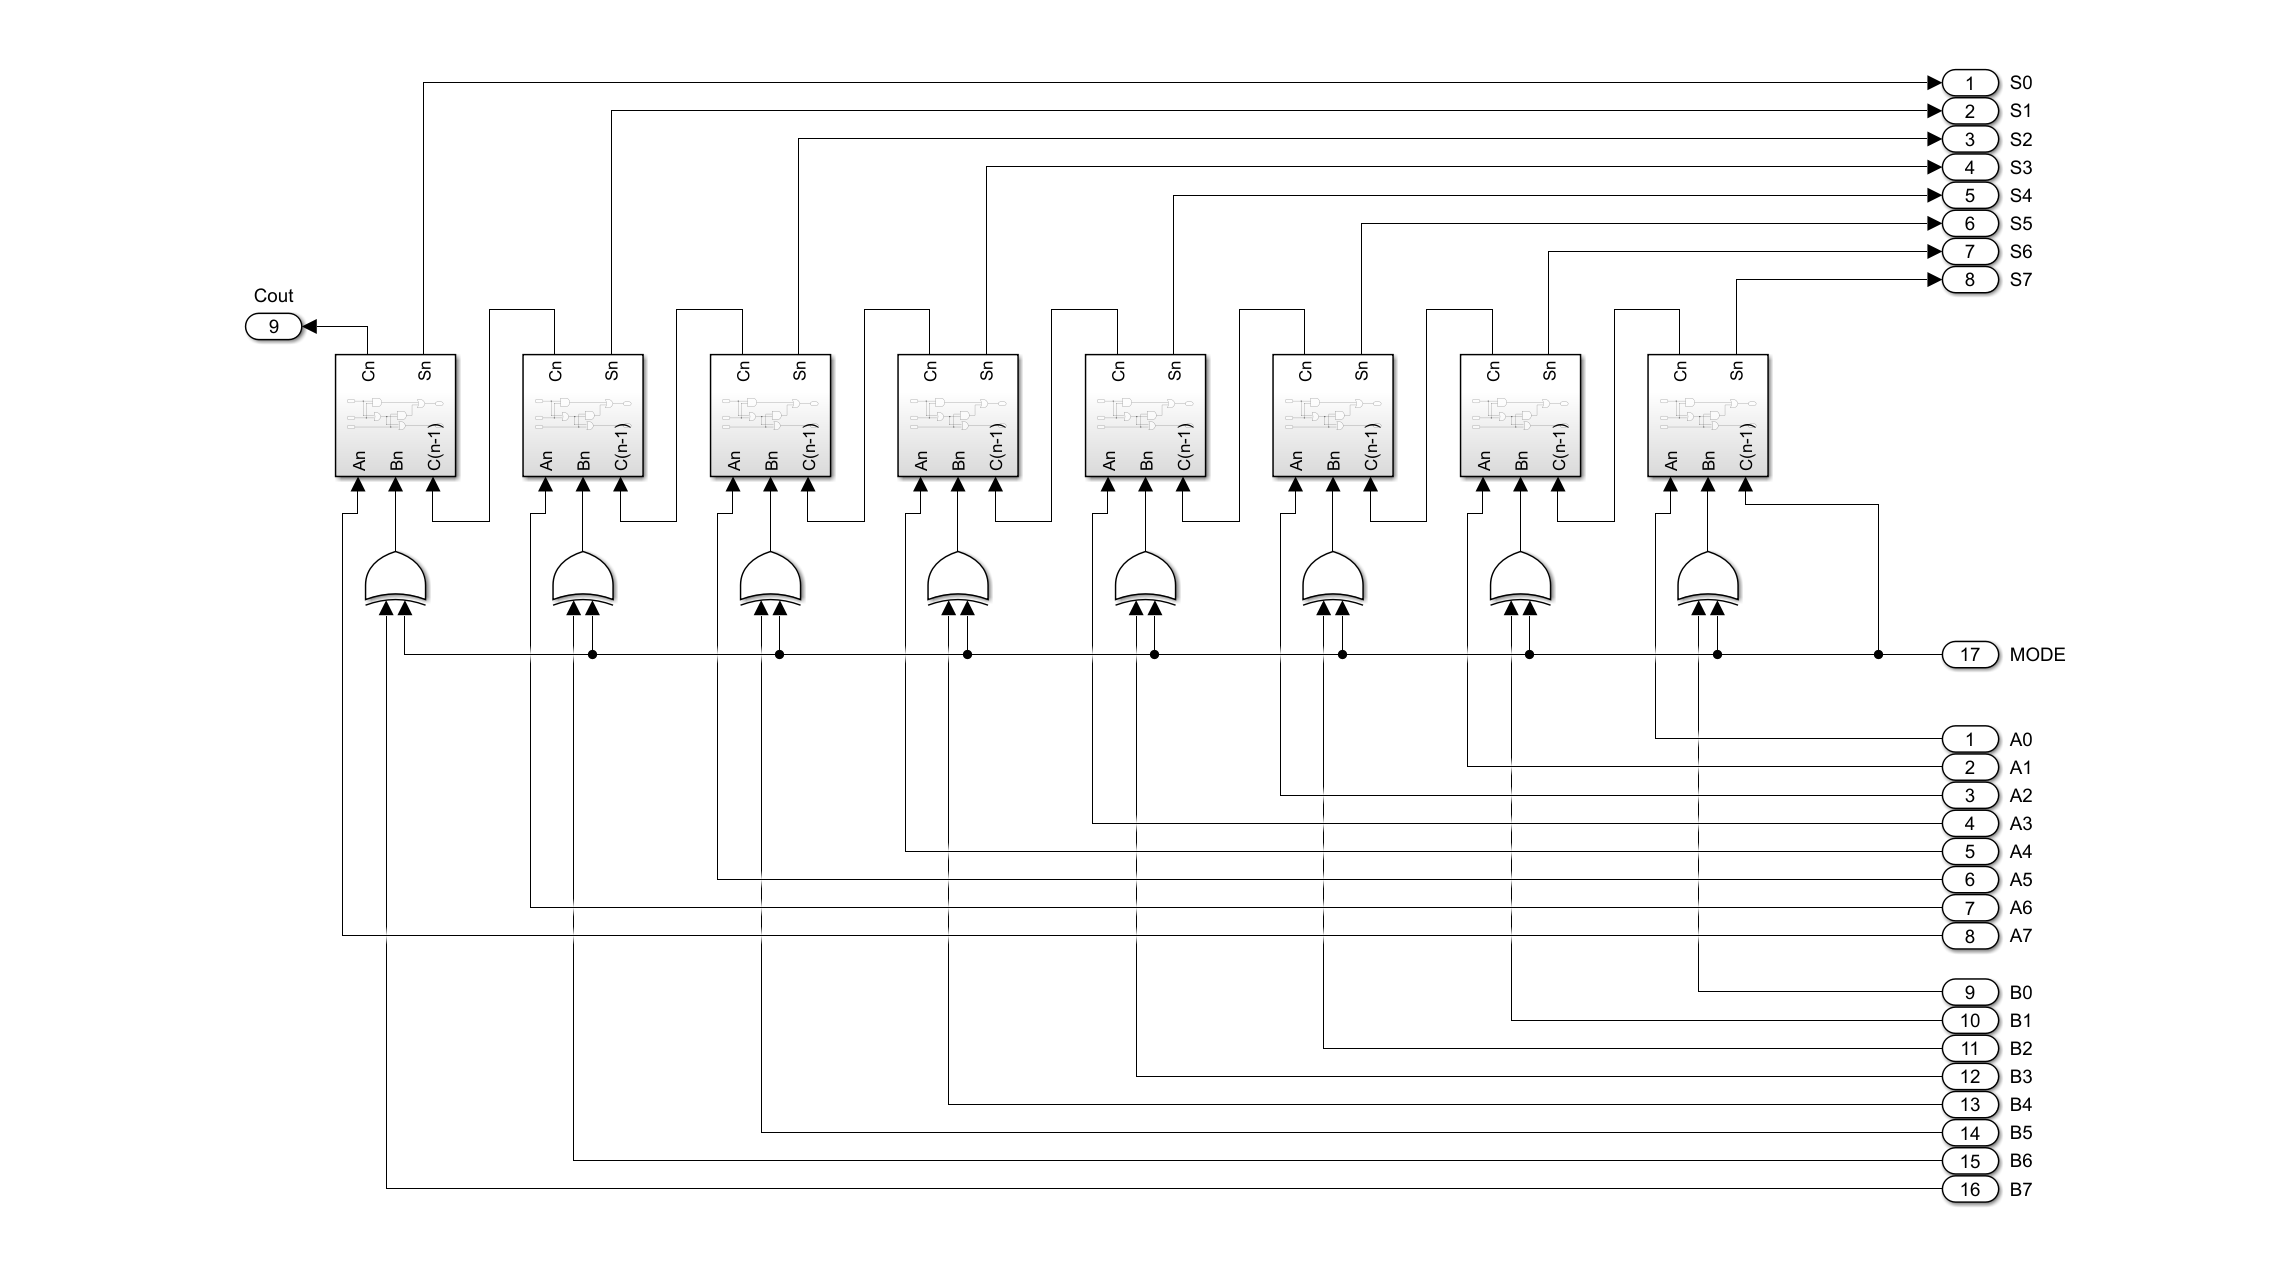
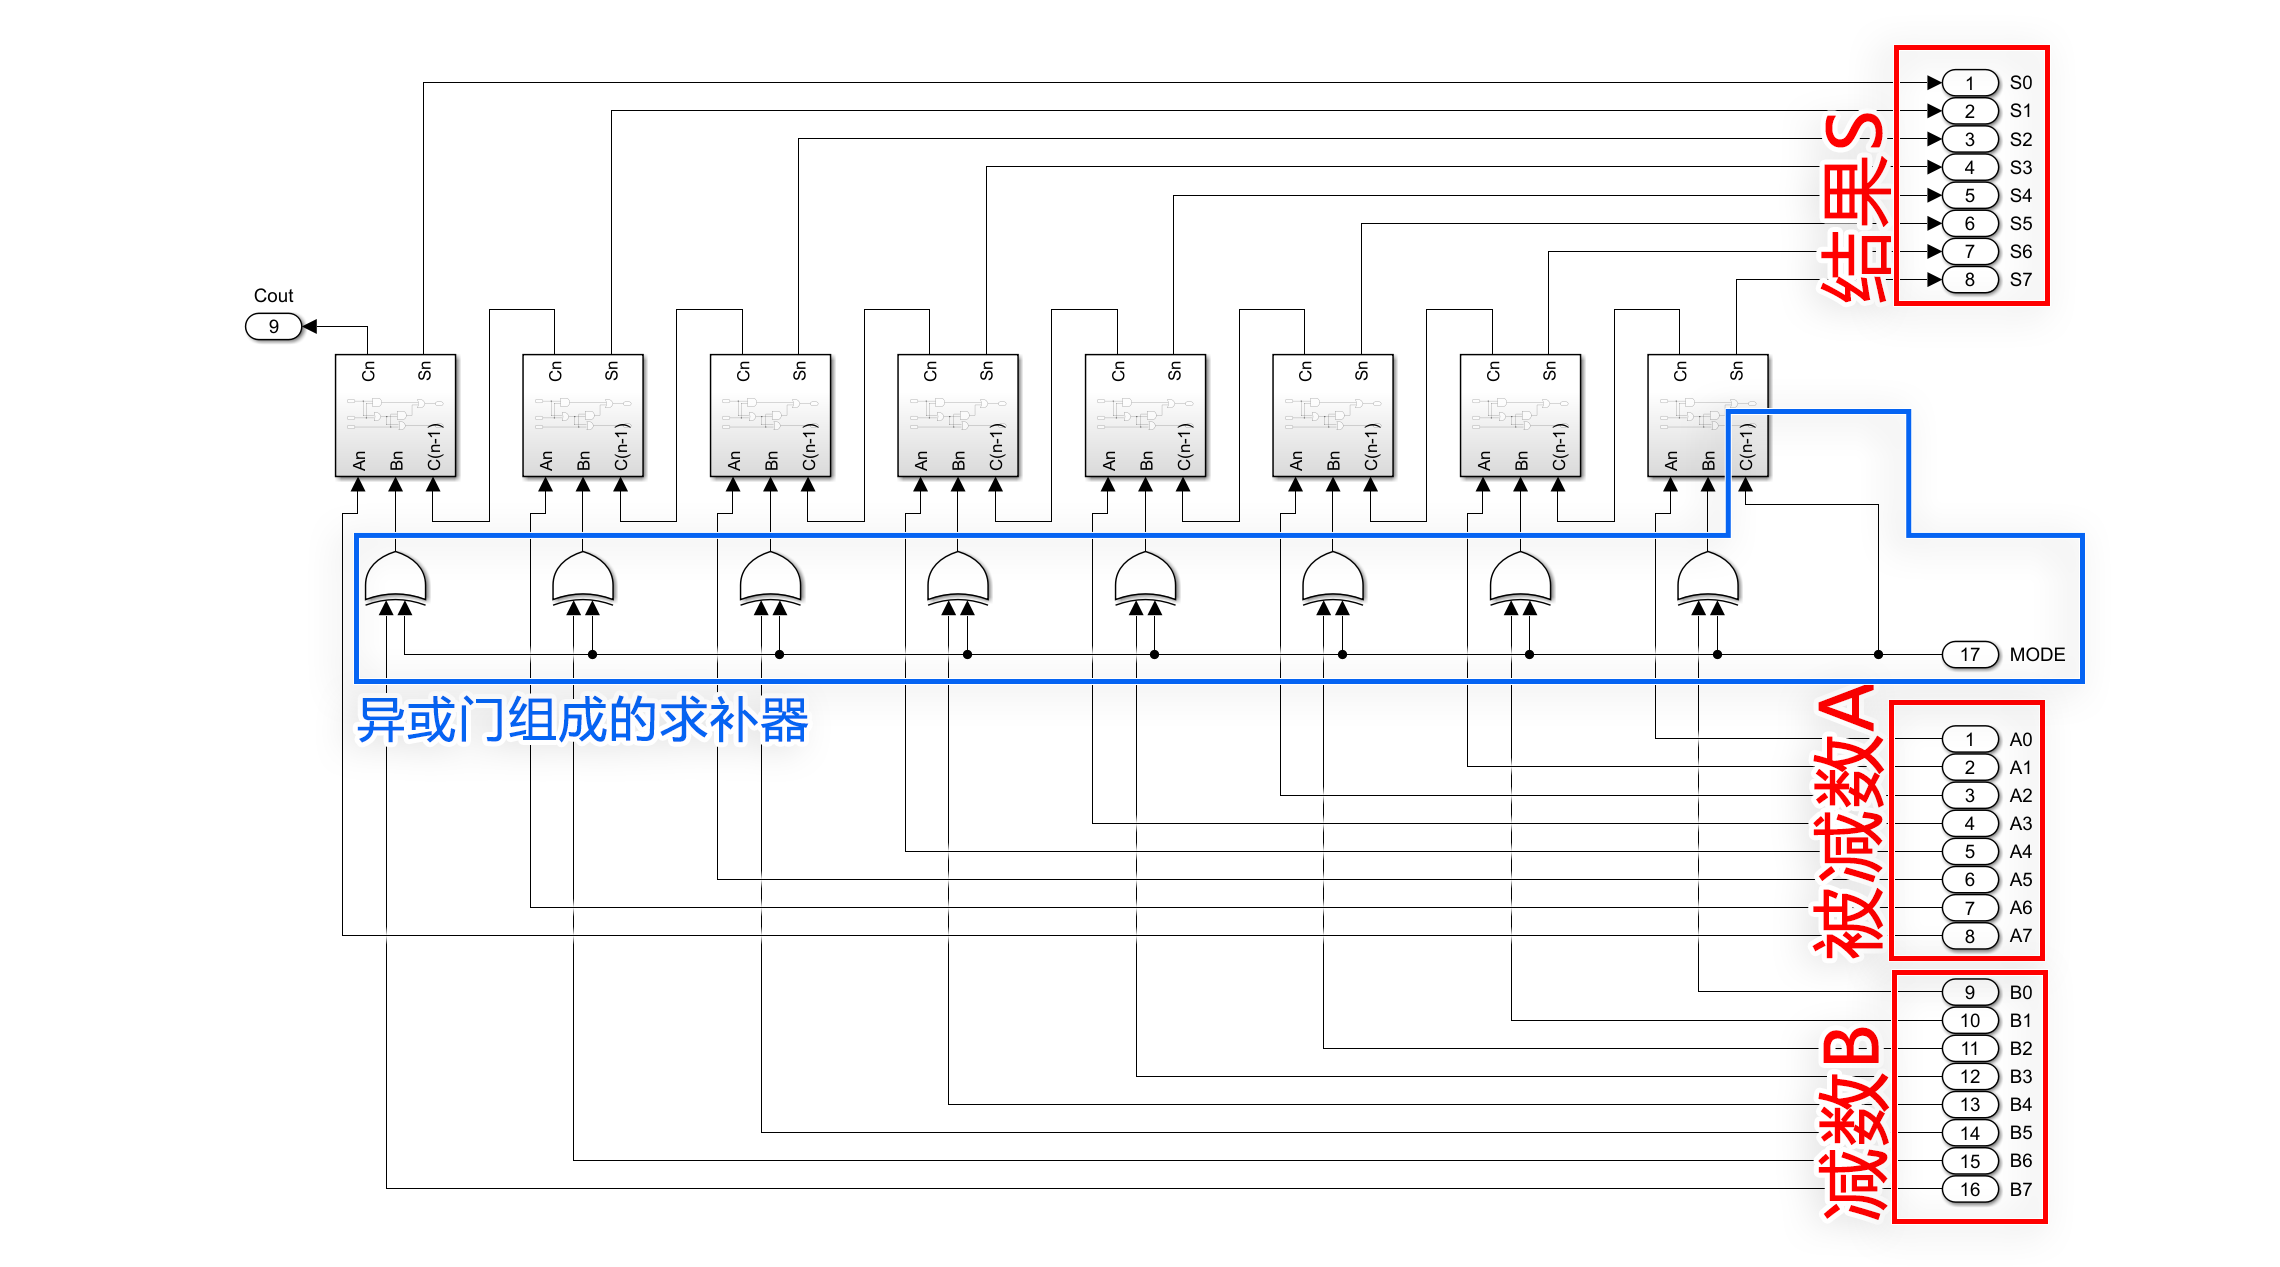
自动提交，未输入备注

diff --git a/电路组学习目录/5 简单数电＆STM32硬件结构.md b/电路组学习目录/5 简单数电＆STM32硬件结构.md
@@ -282,7 +282,7 @@ C_{n} &= A_{n} \times B_{n} + (A_{n} \oplus B_{n}) \times C_{n-1}
 - 计算 $A-B$ ，本质上就是 $A+(-B)$ ，而 $(-B)$ 是 $B$ 的补码，所以要计算减去一个数的值，只要加上那个数的补码就行。
 
 ![图5-7-9 减法器](pictures/5-7-9.png)
-- 如图便是一个减法器电路，在加法器的基础上作出了修改，添加了八个非门，并在第一个全加器的 $C_{n-1}$ 引脚输入了一个常量1，这些修改对应的就是对 $B$ 求补码的电路，八个非门是求 $B$ 的反码，第一个全加器的 $C_{n-1}$ 输入常量1就是在  $B$ 的反码的基础上再加1，得到反码。
+- 如图便是一个减法器电路，在加法器的基础上作出了修改（添加了用蓝色框出来的部分），添加了八个非门，并在第一个全加器的 $C_{n-1}$ 引脚输入了一个常量1，这些修改对应的就是对 $B$ 求补码的电路，八个非门是求 $B$ 的反码，第一个全加器的 $C_{n-1}$ 输入常量1就是在  $B$ 的反码的基础上再加1，得到反码。
 ##### 5.7.3.3 加/减法器
 - 引入了补码运算让我们的加法器成功变成了减法，但是为了能够自由的切换使用加法还是减法，我们不会直接使用八个非门生成反码，而是使用由异或门组成的求补器。
 ![图5-7-11 加/减法器](pictures/5-7-11.png)
@@ -324,17 +324,49 @@ C_{n} &= A_{n} \times B_{n} + (A_{n} \oplus B_{n}) \times C_{n-1}
 - 上面的数据选择器和数据分配器的电路其实十分庞大且臃肿，异步的加减法器其实也可以设计成同步的版本，上述的电路还有大量可以优化的空间，但我们这里不讨论组合逻辑的优化，仅理解各部件功能，感兴趣可以去了解数电＆微机原理。
 - 除了加减法器，数据选择/分配器以外，组合逻辑还能组成相当多的其它逻辑，感兴趣可以去了解数电＆微机原理。
 ### 5.8 时序逻辑
-
 #### 5.8.1 寄存器
+- 寄存器是一种能储存，记忆信息的元件，寄存器的最核心的原理是下图两个非门的结构
+![图5-8-1 两个非门](pictures/5-8-1.png)
+- 两个非门形成了一个回环，我们对他进行分析，先假设A点为0，那么B点是A非，B就是1，B点的1经过右侧的非门后又变成了0回到A，整个电路稳定在A恒为0，B恒为1的状态。 \
+假设A点为1，那么B就是0，B点的0经过右侧的非门后又变成了1回到A，整个电路稳定在A恒为1，B恒为0的状态。
+- 我们管这种电路稳定不变的状态叫做稳态，图中两个非门的电路有两个稳态，分别是
+```math
+S_0:~A=0,~B=1 \\
+S_1:~A=1,~B=0
+```
+- 之前说过，组合逻辑的特点是同样的输入得到的一定是同样的输出，但是现在这个电路没有任何的输入，A的输出却有两种不同的可能，A的输出取决于我之前让这个电路处在了哪一个状态，这个电路的逻辑跟我之前进行过的输入有关，也就是说这个电路记住了我之前的操作，这个电路有记忆的能力。
+- 我们如果规定A为这个电路存储的数据，那么状态 $S_0$ 就是电路储存的数据是 $A=0$ ，状态 $S_1$ 就是电路储存的数据是 $A=1$ ，改变电路的状态就能改变存储的数据。
+- 现在的电路没有任何的输入引脚，我们还没法改变其状态，我们可以在其中插入两个或门，之前提到或门可以合并两路信号，我们的或门可以把我们想输入的信号和两个非门的回环中的信号合并在一起，组成如下图的电路
+![图5-8-2 RS触发器](pictures/5-8-2.png)
+- 前面八大逻辑门的章节提到或门加一个非门就是一个或非门，这里将本来的两个非门和我们新插入的两个或门合并在了一起，变成了两个或非门。
+- 我们管上图的电路叫做RS触发器，他有两个输入，重置R（reset），置位S（set），和一个输出Q。
+- 置位set指将输出设置为1，重置reset指将输出设置为0。
+- 脉冲指一个很短暂的高电平的信号，比如输入一直是0，突然变成了1并持续了很短一段时间，然后又回到0，这就称作一个脉冲。
+- RS触发器的波形图如下
+![图5-8-3 RC触发器波形图](pictures/5-8-3.png)
+- R，S两个引脚正常情况下默认输入0，如果我们给S输入一个脉冲，Q的值会被强制设置为1，如果给R输入一个脉冲，Q的值会被强制设置为0，我们可以通过分别给R，S引脚输入脉冲来改变电路储存的数据Q。
+- RS触发器严禁同时给R,S输入脉冲，否则会造成振荡和状态的不确定，为了更安全的储存数据，我们将RS触发器作如下改动
+![图5-8-4 RS锁存器](pictures/5-8-4.png)
+- 上图称为RS锁存器，我们分别给R,S增加了一个与门作为开关，当 $CLK=0$ 时，两个与门的输出永远为0，不论RS输入什么，Q都保持不变，当 $CLK=1$ 时，两个与门开启，RS的信号传入。
+- 我们使用与门作为开关，在RS信号准备好后再开启开关传入信号，可以避免RS信号的时间有误差导致混乱，此做法称为同步，即用与门作为开关，信号准备好后再开启，如果没有同步用的与门的电路，我们称之为异步，比如之前说的异步加减法器。
+- 我们发现每次开启与门时，我的输入要么是 $R=0,S=1$ ，结果 $Q=1$ ，要么是 $R=1,S=0$ ，结果 $Q=0$ ，如果输入 $R=0,S=0$ 则不会发生任何改变，没有意义，我们的目标是只要CLK有信号，就代表着我想给锁存器写入新的值了，所以我的输入必须是明确的，不能是 $R=0,S=0$ ，综上，我输入的R跟S一定是个相反的数字，为了节约引脚，简化使用方法，我们可以使用一个非门来省略掉R引脚，变成下图所示
+![图5-8-5 D锁存器](pictures/5-8-5.png)
+- 图中是D型锁存器，输入我想储存的数据D，然后给CLK一个脉冲，Q就会变成跟D相等的值，成功保存了我输入的值。
+- D型锁存器的波形图如下图所示
+![图5-8-6 D锁存器波形图](pictures/5-8-6.png)
+- 在CLK为0时，不论D输入什么，输出都只会保持之前的状态不变，在CLK为1时，整个电路就相当于一个中继器，D跟Q输出会完全一样。
+- 当我们需要保存一个数字时，只需要将数字输入给D，然后再给CLK一个脉冲，就保存成功了。
+- 但是D型锁存器有一个严重的缺陷，在输入下图的波形时会体现出来
+![图5-8-7 D锁存器缺陷波形图](pictures/5-8-7.png)
+- CLK为1的那一段时间内电路如同中继器，信号可以随意的穿过锁存器，锁存器的值可以随意改变，这在大多数时序电路里会造成极其严重的后果，我们希望锁存器在任何时刻都不会随意改变，也就是保存数据的动作仅发生在一瞬间，而不是CLK为1的那一段时间，为此我们会使用一种叫做边沿锁存器的电路，如下图
+![图5-8-8 上升边沿锁存器](pictures/5-8-8.png)
+#### 5.8.4 累加器
+#### 5.8.4 定时器
 
-![图5-8-1 寄存器结构](pictures/5-8-2.png)
 
-#### 5.8.2 定时器
+#### 5.8.5 时钟
 
-![图5-8-2 定时器原理](pictures/5-8-3.png)
-
-#### 5.8.3 定时器
-![图5-8-3 时钟信号](pictures/5-8-1.png)
+#### 5.8.6 竞争与冒险
 
 ### 5.9 微机原理&了解STM32硬件结构
 
